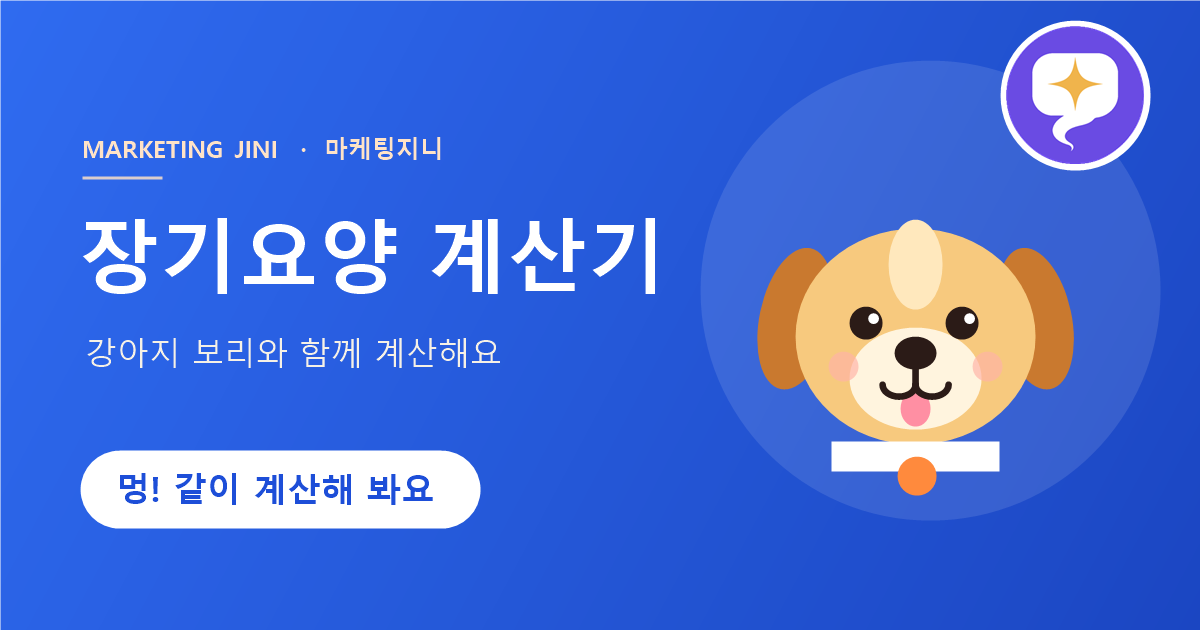
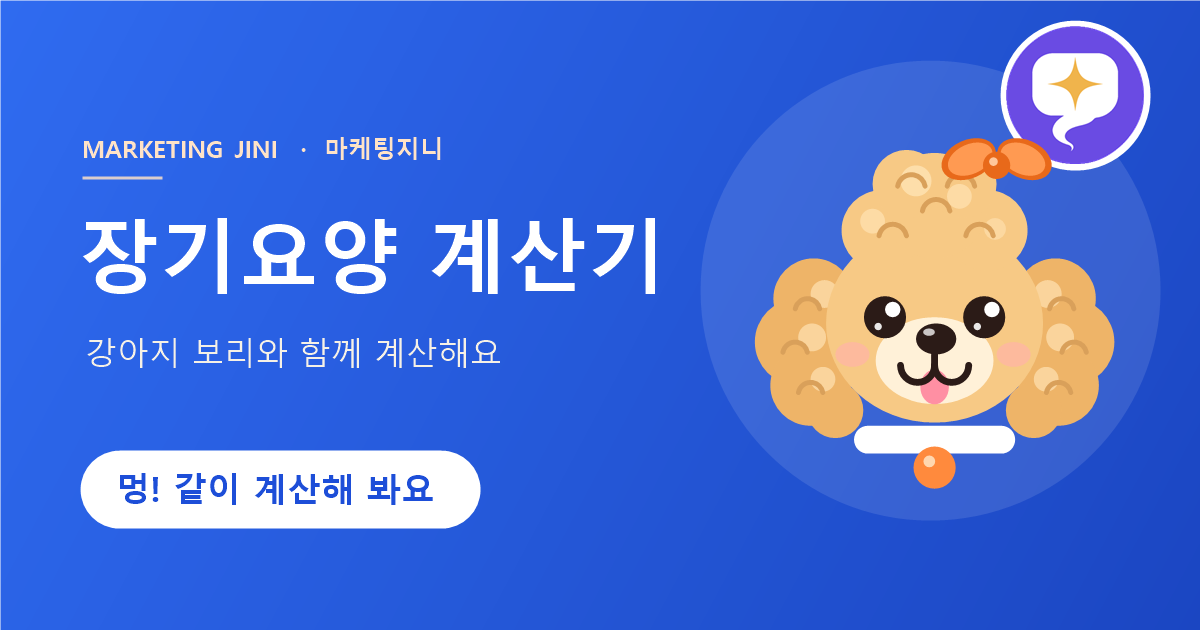
푸들 캐릭터로 교체, 안내 문구와 공식 홈페이지 글자 정리

Changed region(s): [[0.6167, 0.2111, 0.925, 0.7841]]

diff --git a/index.html b/index.html
@@ -19,7 +19,7 @@
 <meta property="og:title" content="노인장기요양 본인부담금">
 <meta property="og:description" content="마케팅지니">
 <meta property="og:url" content="https://jiniya1227.github.io/care_calculator/">
-<meta property="og:image" content="https://jiniya1227.github.io/care_calculator/og.png?v=20261117c">
+<meta property="og:image" content="https://jiniya1227.github.io/care_calculator/og.png?v=20261117d">
 <meta property="og:image:width" content="1200">
 <meta property="og:image:height" content="630">
 <meta name="twitter:card" content="summary_large_image">
@@ -37,18 +37,75 @@
 <svg class="sprite" width="0" height="0" aria-hidden="true" focusable="false">
   <defs>
     <symbol id="dog-face" viewBox="0 0 120 124">
-      <g class="ear ear-l"><ellipse cx="20" cy="56" rx="12" ry="24" fill="#c9792f" transform="rotate(12 20 56)"/></g>
-      <g class="ear ear-r"><ellipse cx="100" cy="56" rx="12" ry="24" fill="#c9792f" transform="rotate(-12 100 56)"/></g>
-      <ellipse cx="60" cy="62" rx="40" ry="36" fill="#f7c97e"/>
-      <ellipse cx="60" cy="38" rx="9" ry="15" fill="#ffe8bd"/>
-      <ellipse cx="60" cy="76" rx="22" ry="17" fill="#fff4de"/>
-      <circle cx="36" cy="72" r="5" fill="#ffb3a7" opacity=".65"/><circle cx="84" cy="72" r="5" fill="#ffb3a7" opacity=".65"/>
-      <ellipse class="tongue" cx="60" cy="86" rx="5" ry="6" fill="#ff8fa3"/>
-      <g class="eye eye-l"><circle cx="44" cy="58" r="5.5" fill="#2b1b17"/><circle cx="46" cy="56" r="1.8" fill="#fff"/></g>
-      <g class="eye eye-r"><circle cx="76" cy="58" r="5.5" fill="#2b1b17"/><circle cx="78" cy="56" r="1.8" fill="#fff"/></g>
-      <ellipse cx="60" cy="68" rx="7" ry="5.5" fill="#2b1b17"/>
-      <path d="M60 73v5M49 78c4 4 9 4 11 0M60 78c2 4 7 4 11 0" fill="none" stroke="#2b1b17" stroke-width="2.2" stroke-linecap="round"/>
-      <rect x="32" y="97" width="56" height="10" rx="5" fill="#fff"/><circle cx="60" cy="108" r="6.5" fill="#ff8a3d"/>
+      <g class="ear ear-l">
+        <circle cx="21" cy="60" r="13" fill="#eeb468"/>
+        <circle cx="16" cy="74" r="14" fill="#eeb468"/>
+        <circle cx="20" cy="88" r="13" fill="#eeb468"/>
+        <circle cx="28" cy="96" r="9" fill="#eeb468"/>
+        <circle cx="24" cy="58" r="4.5" fill="#ffe3b3" opacity="0.7"/>
+        <circle cx="20" cy="72" r="4.5" fill="#ffe3b3" opacity="0.7"/>
+        <circle cx="24" cy="86" r="4" fill="#ffe3b3" opacity="0.7"/>
+        <path d="M15.06 63.31A4 4 0 0 1 22.94 63.31" fill="none" stroke="#d9a05a" stroke-width="1.6" stroke-linecap="round"/>
+        <path d="M11.06 77.31A4 4 0 0 1 18.94 77.31" fill="none" stroke="#d9a05a" stroke-width="1.6" stroke-linecap="round"/>
+        <path d="M16.06 90.31A4 4 0 0 1 23.94 90.31" fill="none" stroke="#d9a05a" stroke-width="1.6" stroke-linecap="round"/>
+      </g>
+      <g class="ear ear-r">
+        <circle cx="99" cy="60" r="13" fill="#eeb468"/>
+        <circle cx="104" cy="74" r="14" fill="#eeb468"/>
+        <circle cx="100" cy="88" r="13" fill="#eeb468"/>
+        <circle cx="92" cy="96" r="9" fill="#eeb468"/>
+        <circle cx="96" cy="58" r="4.5" fill="#ffe3b3" opacity="0.7"/>
+        <circle cx="100" cy="72" r="4.5" fill="#ffe3b3" opacity="0.7"/>
+        <circle cx="96" cy="86" r="4" fill="#ffe3b3" opacity="0.7"/>
+        <path d="M97.06 63.31A4 4 0 0 1 104.94 63.31" fill="none" stroke="#d9a05a" stroke-width="1.6" stroke-linecap="round"/>
+        <path d="M101.06 77.31A4 4 0 0 1 108.94 77.31" fill="none" stroke="#d9a05a" stroke-width="1.6" stroke-linecap="round"/>
+        <path d="M96.06 90.31A4 4 0 0 1 103.94 90.31" fill="none" stroke="#d9a05a" stroke-width="1.6" stroke-linecap="round"/>
+      </g>
+      <ellipse cx="60" cy="68" rx="35" ry="32" fill="#f7c985"/>
+      <circle cx="43" cy="38" r="13" fill="#f7c985"/>
+      <circle cx="77" cy="38" r="13" fill="#f7c985"/>
+      <circle cx="60" cy="30" r="17" fill="#f7c985"/>
+      <circle cx="51" cy="23" r="11" fill="#f7c985"/>
+      <circle cx="69" cy="23" r="11" fill="#f7c985"/>
+      <circle cx="54" cy="22" r="5" fill="#ffe3b3" opacity="0.8"/>
+      <circle cx="68" cy="27" r="4" fill="#ffe3b3" opacity="0.7"/>
+      <circle cx="40" cy="35" r="4" fill="#ffe3b3" opacity="0.7"/>
+      <circle cx="79" cy="38" r="3.5" fill="#ffe3b3" opacity="0.6"/>
+      <path d="M41.57 39.22A4.5 4.5 0 0 1 50.43 39.22" fill="none" stroke="#d9a05a" stroke-width="1.6" stroke-linecap="round"/>
+      <path d="M55.57 32.22A4.5 4.5 0 0 1 64.43 32.22" fill="none" stroke="#d9a05a" stroke-width="1.6" stroke-linecap="round"/>
+      <path d="M69.57 39.22A4.5 4.5 0 0 1 78.43 39.22" fill="none" stroke="#d9a05a" stroke-width="1.6" stroke-linecap="round"/>
+      <path d="M48.57 24.22A4.5 4.5 0 0 1 57.43 24.22" fill="none" stroke="#d9a05a" stroke-width="1.6" stroke-linecap="round"/>
+      <path d="M63.57 24.22A4.5 4.5 0 0 1 72.43 24.22" fill="none" stroke="#d9a05a" stroke-width="1.6" stroke-linecap="round"/>
+      <ellipse cx="60" cy="80" rx="19" ry="14" fill="#fff1d8"/>
+      <ellipse cx="34" cy="78" rx="5.5" ry="4" fill="#ffb3a7" opacity="0.7"/>
+      <ellipse cx="86" cy="78" rx="5.5" ry="4" fill="#ffb3a7" opacity="0.7"/>
+      <g class="eye eye-l">
+        <circle cx="44" cy="66" r="6.8" fill="#2b1b17"/>
+        <circle cx="46.6" cy="63.4" r="2.5" fill="#fff"/>
+        <circle cx="41.8" cy="69" r="1.2" fill="#fff" opacity="0.9"/>
+      </g>
+      <g class="eye eye-r">
+        <circle cx="76" cy="66" r="6.8" fill="#2b1b17"/>
+        <circle cx="78.6" cy="63.4" r="2.5" fill="#fff"/>
+        <circle cx="73.8" cy="69" r="1.2" fill="#fff" opacity="0.9"/>
+      </g>
+      <ellipse cx="60" cy="72.5" rx="6.5" ry="5" fill="#2b1b17"/>
+      <ellipse cx="58.2" cy="70.8" rx="1.9" ry="1.2" fill="#fff" opacity="0.75"/>
+      <g class="tongue">
+        <ellipse cx="60" cy="88.5" rx="4.6" ry="5.6" fill="#ff8fa3"/>
+      </g>
+      <path d="M60 77.5L60 81.5" fill="none" stroke="#2b1b17" stroke-width="2.2" stroke-linecap="round"/>
+      <path d="M60 81.5A5.5 5.5 0 0 1 49 81.5" fill="none" stroke="#2b1b17" stroke-width="2.2" stroke-linecap="round"/>
+      <path d="M71 81.5A5.5 5.5 0 0 1 60 81.5" fill="none" stroke="#2b1b17" stroke-width="2.2" stroke-linecap="round"/>
+      <ellipse cx="71" cy="15" rx="9.2" ry="6.2" fill="#e8691a" transform="rotate(-24 71 15)"/>
+      <ellipse cx="89" cy="15" rx="9.2" ry="6.2" fill="#e8691a" transform="rotate(24 89 15)"/>
+      <ellipse cx="71.5" cy="15" rx="7.6" ry="4.8" fill="#ff9a52" transform="rotate(-24 71.5 15)"/>
+      <ellipse cx="88.5" cy="15" rx="7.6" ry="4.8" fill="#ff9a52" transform="rotate(24 88.5 15)"/>
+      <circle cx="80" cy="17" r="4.4" fill="#e8691a"/>
+      <circle cx="79" cy="15.8" r="1.4" fill="#ffc79b"/>
+      <rect x="34" y="101" width="52" height="9" rx="4.5" fill="#fff"/>
+      <circle cx="60" cy="114.5" r="6.8" fill="#ff8a3d"/>
+      <circle cx="58.3" cy="112.5" r="1.9" fill="#ffd7b0"/>
     </symbol>
     <symbol id="i-x" viewBox="0 0 24 24"><path d="M18 6 6 18M6 6l12 12"/></symbol>
     <symbol id="i-down" viewBox="0 0 24 24"><path d="M12 5v14M19 12l-7 7-7-7"/></symbol>
@@ -131,7 +188,7 @@
 <section class="sec" aria-label="더 보기">
   <div class="actions">
     <a class="btn soft" id="blogBtn" href="#" target="_blank" rel="noopener" hidden><svg class="ic" aria-hidden="true"><use href="#i-book"/></svg>블로그 글 보러 가기</a>
-    <a class="btn official" href="https://www.longtermcare.or.kr/npbs/indexr.jsp" target="_blank" rel="noopener"><svg class="ic" aria-hidden="true"><use href="#i-ext"/></svg>노인장기요양보험 공식 홈페이지</a>
+    <a class="btn official" href="https://www.longtermcare.or.kr/npbs/indexr.jsp" target="_blank" rel="noopener"><svg class="ic" aria-hidden="true"><use href="#i-ext"/></svg>노인장기요양보험 홈페이지</a>
   </div>
 </section>
 </div>
@@ -185,7 +242,7 @@
 
       <!-- 주야간보호 -->
       <section class="pg cur" id="pn0" role="tabpanel" aria-labelledby="tab0"><div class="pg-in">
-        <div class="kind"><span class="kb re">재가급여</span><p><b>주야간보호</b> · 집에서 지내면서 낮 동안 센터에 다녀요. 돌봄·식사·프로그램을 받고 저녁에는 집으로 돌아와요. 월 한도액 안에서 이용해요.</p></div>
+        <div class="kind"><span class="kb re">재가급여</span><p><b>주야간보호</b> · 집에서 지내면서 낮 동안 센터에 다녀요. 돌봄·식사·프로그램을 받고 저녁에는 집으로 돌아와요.</p></div>
         <fieldset>
           <legend>다니는 요일</legend>
           <div class="cal" data-days="day.days" role="group" aria-label="다니는 요일">
@@ -197,7 +254,7 @@
             <button type="button" data-preset="day.days:1,2,3,4,5,6">월~토</button>
           </div>
 <p class="err" data-if="x.noDay"><svg class="ic" aria-hidden="true"><use href="#i-alert"/></svg>요일을 하나 이상 골라 주세요.</p>
-          <p class="hint">한 달 날수는 월~금은 22일, 월~토는 25일로 계산해요. 그 밖의 요일은 일주일 횟수 × 4.35를 반올림해요.</p>
+          <p class="hint">한 달 날수는 월~금은 22일, 월~토는 25일로 계산해요.</p>
         </fieldset>
         <fieldset>
           <legend>평일 이용 시간</legend>
@@ -209,8 +266,8 @@
             <label class="chk"><input type="radio" name="day.meal" value="lunch" data-path="day.meal"><span class="bx"></span><span>점심만</span></label>
             <label class="chk"><input type="radio" name="day.meal" value="both" data-path="day.meal"><span class="bx"></span><span>점심과 저녁</span></label>
           </div>
-          <label class="fld"><span>점심·저녁 한 끼<span class="tagc">공단 지원 없음</span><small>공단 지원이 없어서 센터마다 달라요. 센터에 물어보고 고쳐 넣어 주세요</small></span><span class="inp"><input class="num" data-money data-max="50000" type="text" inputmode="numeric" autocomplete="off" data-path="day.mealPrice"><em>원</em></span></label>
-          <label class="fld"><span>간식비 (하루, 1회)<span class="tagc">공단 지원 없음</span><small>공단 지원이 없어서 센터마다 달라요. 직접 고칠 수 있어요</small></span><span class="inp"><input class="num" data-money data-max="50000" type="text" inputmode="numeric" autocomplete="off" data-path="day.snack"><em>원</em></span></label>
+          <label class="fld"><span>점심·저녁 한 끼<span class="tagc">공단 지원 없음</span></span><span class="inp"><input class="num" data-money data-max="50000" type="text" inputmode="numeric" autocomplete="off" data-path="day.mealPrice"><em>원</em></span></label>
+          <label class="fld"><span>간식비 (하루, 1회)<span class="tagc">공단 지원 없음</span></span><span class="inp"><input class="num" data-money data-max="50000" type="text" inputmode="numeric" autocomplete="off" data-path="day.snack"><em>원</em></span></label>
         </fieldset>
         <fieldset>
           <legend>방문요양 함께 이용 (선택)</legend>
@@ -257,7 +314,7 @@
 
       <!-- 방문요양 -->
       <section class="pg" id="pn1" role="tabpanel" aria-labelledby="tab1" aria-hidden="true"><div class="pg-in">
-        <div class="kind"><span class="kb re">재가급여</span><p><b>방문요양</b> · 요양보호사가 집으로 와서 신체활동과 일상생활을 도와줘요. 월 한도액 안에서 이용해요.</p></div>
+        <div class="kind"><span class="kb re">재가급여</span><p><b>방문요양</b> · 요양보호사가 집으로 와서 신체활동과 일상생활을 도와줘요.</p></div>
         <p class="note">하루 한 번, 평일 오후 6시 이전 방문 기준이에요. 식비·간식비는 없어요. 인지지원등급은 이용할 수 없어요.</p>
         <fieldset>
           <legend>일주일에 오시는 횟수</legend>
@@ -333,7 +390,6 @@
 <!-- 5. 계산 내역 -->
 <section class="sec" id="ledger" aria-labelledby="h-ledger">
   <h2 id="h-ledger">계산 내역</h2>
-  <p class="cap">가계부에 적듯이 한 줄씩 풀어 봤어요.</p>
   <div class="ledger" id="ledgerBox"></div>
   <p class="warn" id="warnBox" hidden></p>
 </section>
@@ -341,7 +397,7 @@
 <!-- 6. 세 가지 비교 -->
 <section class="sec" aria-labelledby="h-cmp">
   <h2 id="h-cmp">세 가지 비교</h2>
-  <p class="cap" id="cmpCap">같은 등급·감경으로 비교했어요. 줄을 누르면 그 탭으로 가요.</p>
+  <p class="cap" id="cmpCap">같은 등급·감경으로 비교했어요.</p>
   <div id="cmpList">
     <button type="button" class="cmp-row" data-mode="0"><span class="nm">주야간보호<small></small></span><b></b><i class="gauge"></i></button>
     <button type="button" class="cmp-row" data-mode="1"><span class="nm">방문요양<small></small></span><b></b><i class="gauge"></i></button>
@@ -409,7 +465,7 @@
   <h3>기준과 공식 자료</h3>
   <p>국민건강보험공단 노인장기요양보험 2026.1.1. 고시 기준이에요. (월 한도액·급여비용·본인부담금 감경)</p>
   <div class="foot-links">
-    <a href="https://www.longtermcare.or.kr/npbs/indexr.jsp" target="_blank" rel="noopener"><svg class="ic" aria-hidden="true"><use href="#i-ext"/></svg>노인장기요양보험 공식 홈페이지</a>
+    <a href="https://www.longtermcare.or.kr/npbs/indexr.jsp" target="_blank" rel="noopener"><svg class="ic" aria-hidden="true"><use href="#i-ext"/></svg>노인장기요양보험</a>
     <a href="https://www.longtermcare.or.kr/npbs/e/b/502/npeb502m01.web?menuId=npe0000002742" target="_blank" rel="noopener"><svg class="ic" aria-hidden="true"><use href="#i-ext"/></svg>월 한도액 및 급여비용</a>
     <a href="https://www.longtermcare.or.kr/npbs/e/b/503/npeb503m01.web?menuId=npe0000002743" target="_blank" rel="noopener"><svg class="ic" aria-hidden="true"><use href="#i-ext"/></svg>본인부담금 감경</a>
   </div>

diff --git a/app.js b/app.js
@@ -167,7 +167,7 @@ function calcDay(S) {
   rows.push({ label: '한도 초과분', sub: '한도를 넘은 부분은 전액 본인', amt: fin.excess, cls: fin.excess ? 'over' : 'zero' });
   rows.push({ k: 'head', label: '공단 지원이 없는 항목', sub: '센터마다 달라요 · 센터에 확인해서 직접 넣어 주세요' });
   rows.push({ label: d.meal === 'both' ? '점심·저녁 ' + won(num(d.mealPrice)) + ' × 2끼 × ' + days + '일' : '점심 ' + won(num(d.mealPrice)) + ' × ' + days + '일', amt: mealCost, cls: mealCost ? '' : 'zero' });
-  rows.push({ label: '간식비 ' + won(num(d.snack)) + ' × ' + days + '일', sub: '하루 1회', amt: snackCost, cls: snackCost ? '' : 'zero' });
+  rows.push({ label: '간식비 ' + won(num(d.snack)) + ' × ' + days + '일', amt: snackCost, cls: snackCost ? '' : 'zero' });
   var total = fin.burden + fin.excess + nonCov;
   rows.push({ k: 'total', label: '이번 달 내실 금액', amt: total });
   var desc = '주야간보호센터 ' + (d.days.length ? labelDays(d.days) : '(요일 선택 전)') + ' ' + DATA.bands[d.band];

diff --git a/dog.css b/dog.css
@@ -78,8 +78,8 @@
 .eye { transform-box: fill-box; transform-origin: 50% 50%; animation: dog-blink 4.2s infinite; }
 @keyframes dog-blink { 0%, 90%, 100% { transform: scaleY(1); } 94% { transform: scaleY(.08); } }
 .ear { animation: ear-flap 2.6s ease-in-out infinite; }
-.ear-l { transform-origin: 22px 36px; }
-.ear-r { transform-origin: 98px 36px; animation-delay: .35s; }
+.ear-l { transform-origin: 24px 50px; }
+.ear-r { transform-origin: 96px 50px; animation-delay: .35s; }
 @keyframes ear-flap { 0%, 100% { transform: rotate(0); } 45% { transform: rotate(9deg); } 70% { transform: rotate(-6deg); } }
 .ear-r { animation-name: ear-flap-r; }
 @keyframes ear-flap-r { 0%, 100% { transform: rotate(0); } 45% { transform: rotate(-9deg); } 70% { transform: rotate(6deg); } }

diff --git a/sw.js b/sw.js
@@ -1,6 +1,6 @@
 /* 장기요양 계산기 — 오프라인용 서비스 워커
    파일을 고쳐서 다시 올릴 때는 아래 VERSION 숫자를 하나 올려 주세요. */
-const VERSION = 'v64';
+const VERSION = 'v65';
 const CACHE = 'ltc-calc-' + VERSION;
 const FONT_CACHE = 'ltc-fonts-v1';
 const ASSETS = [
